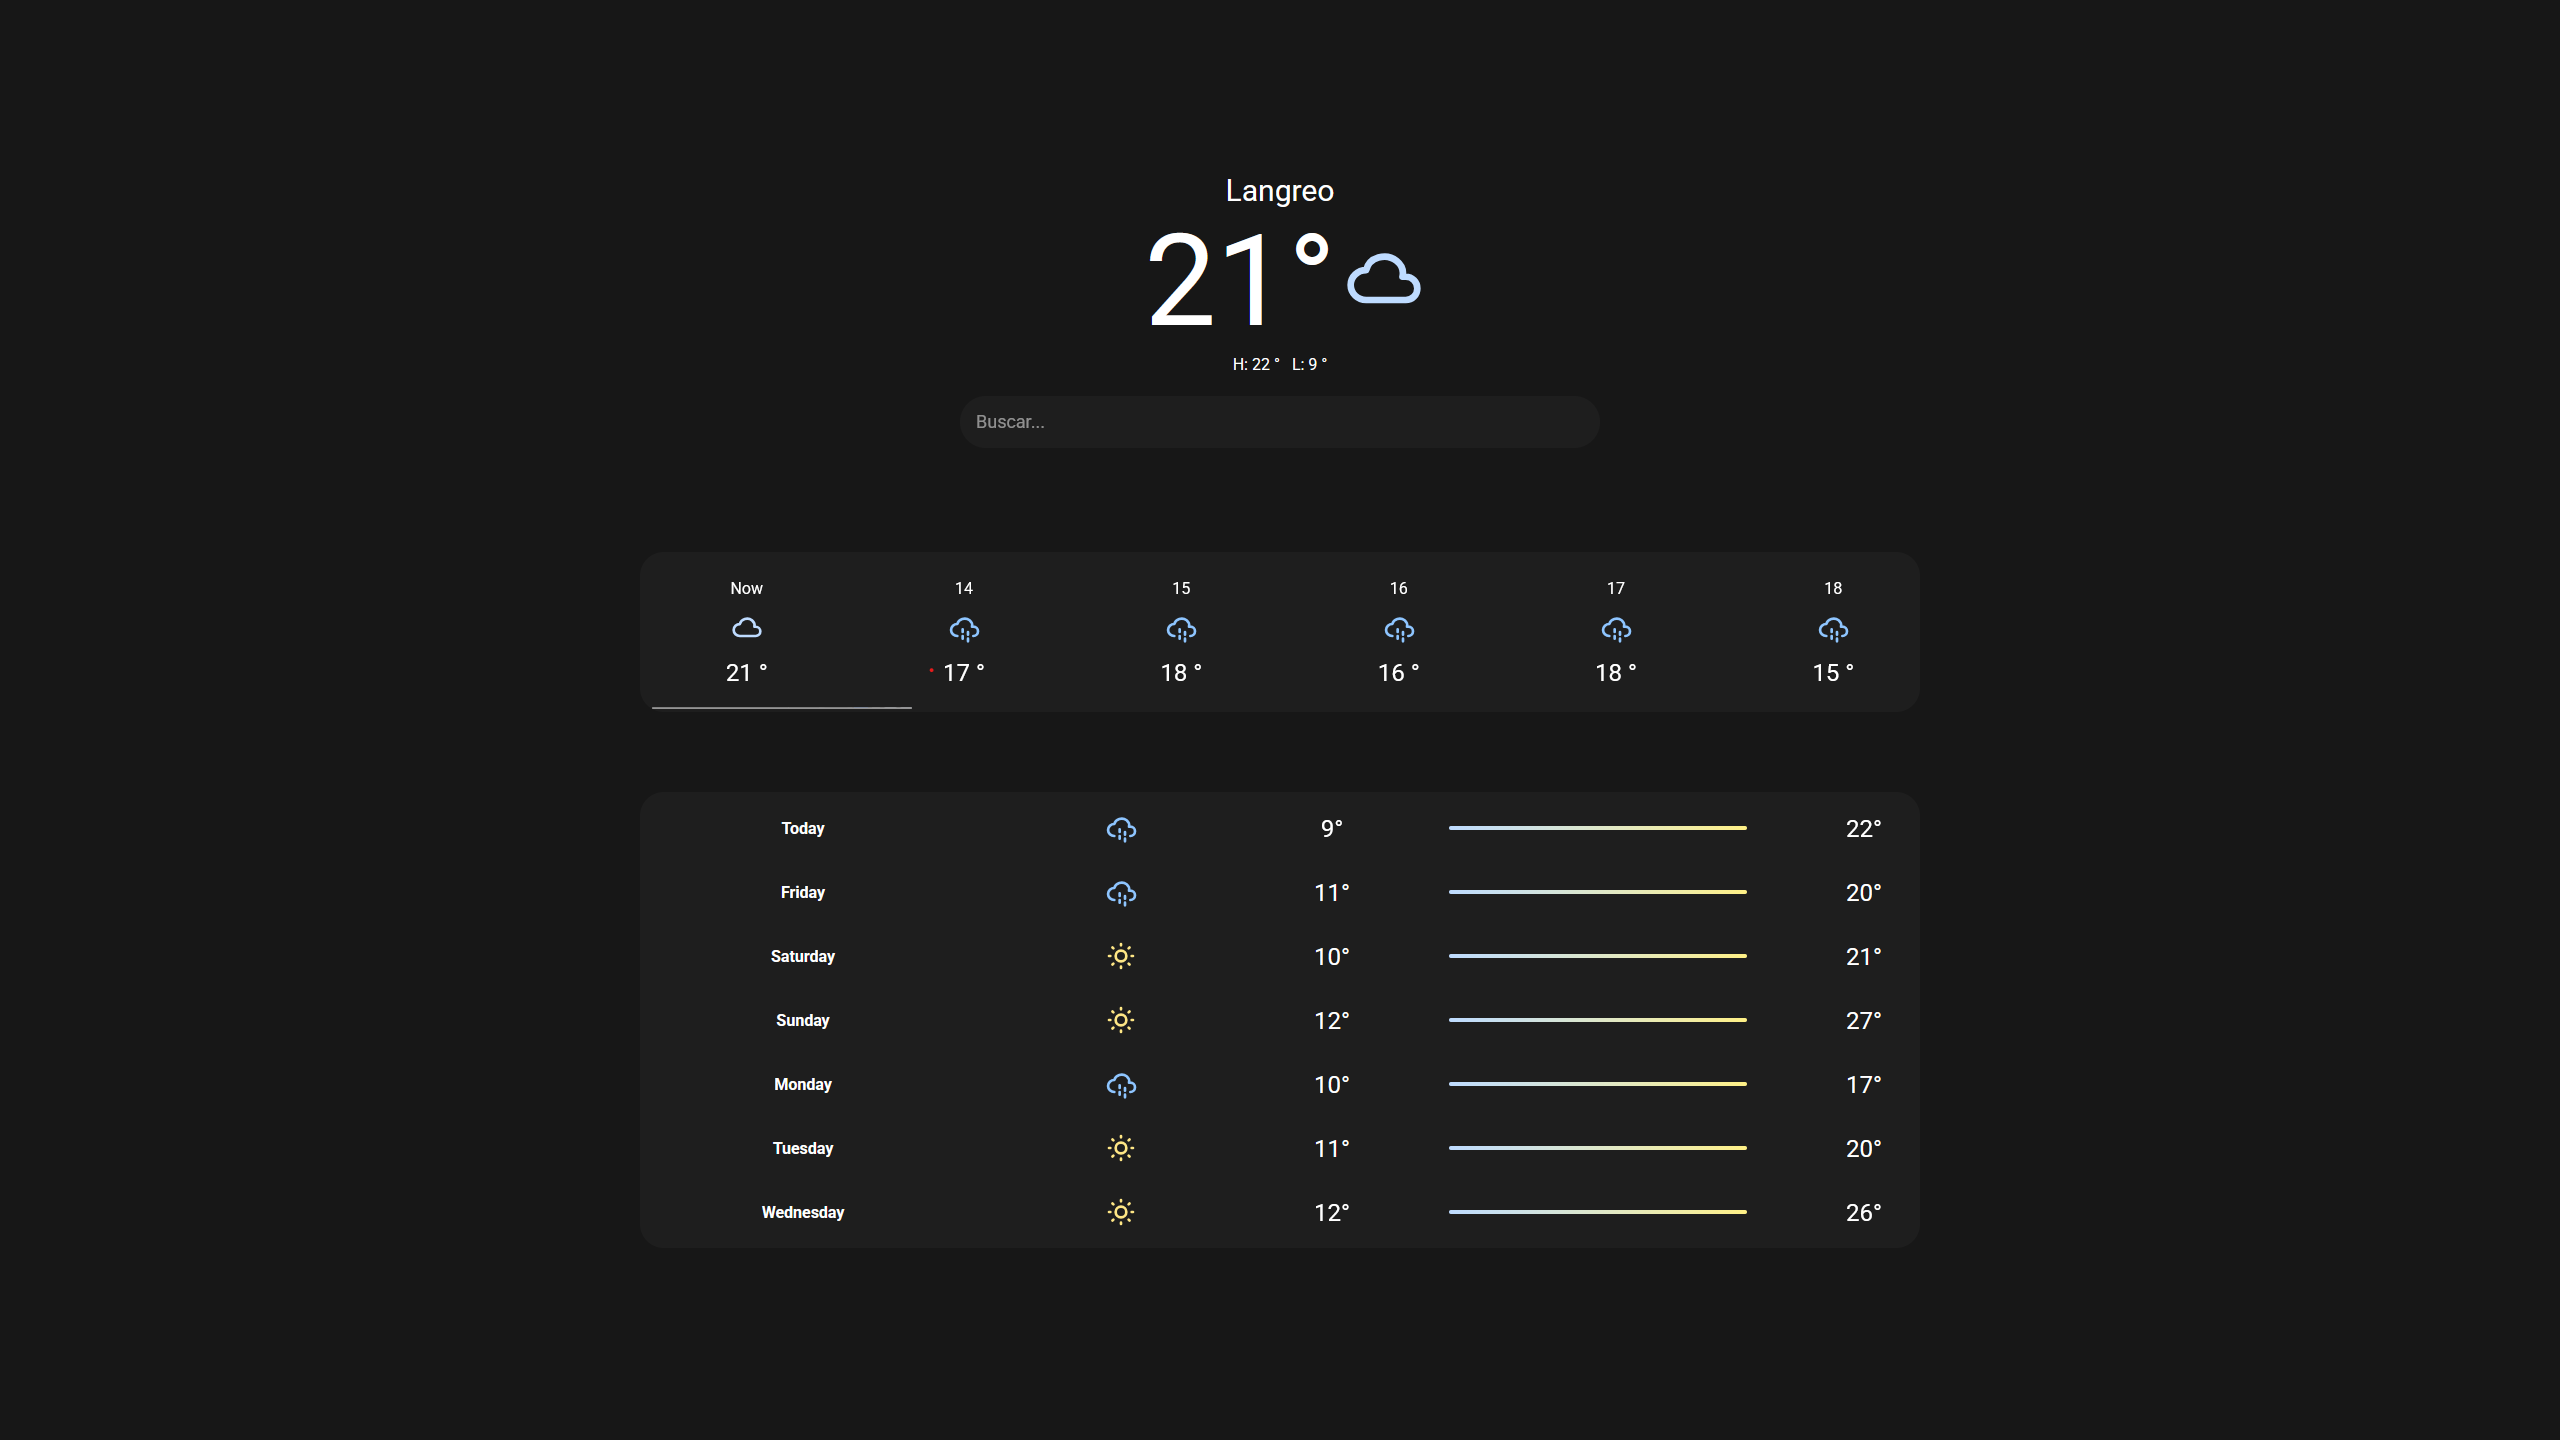
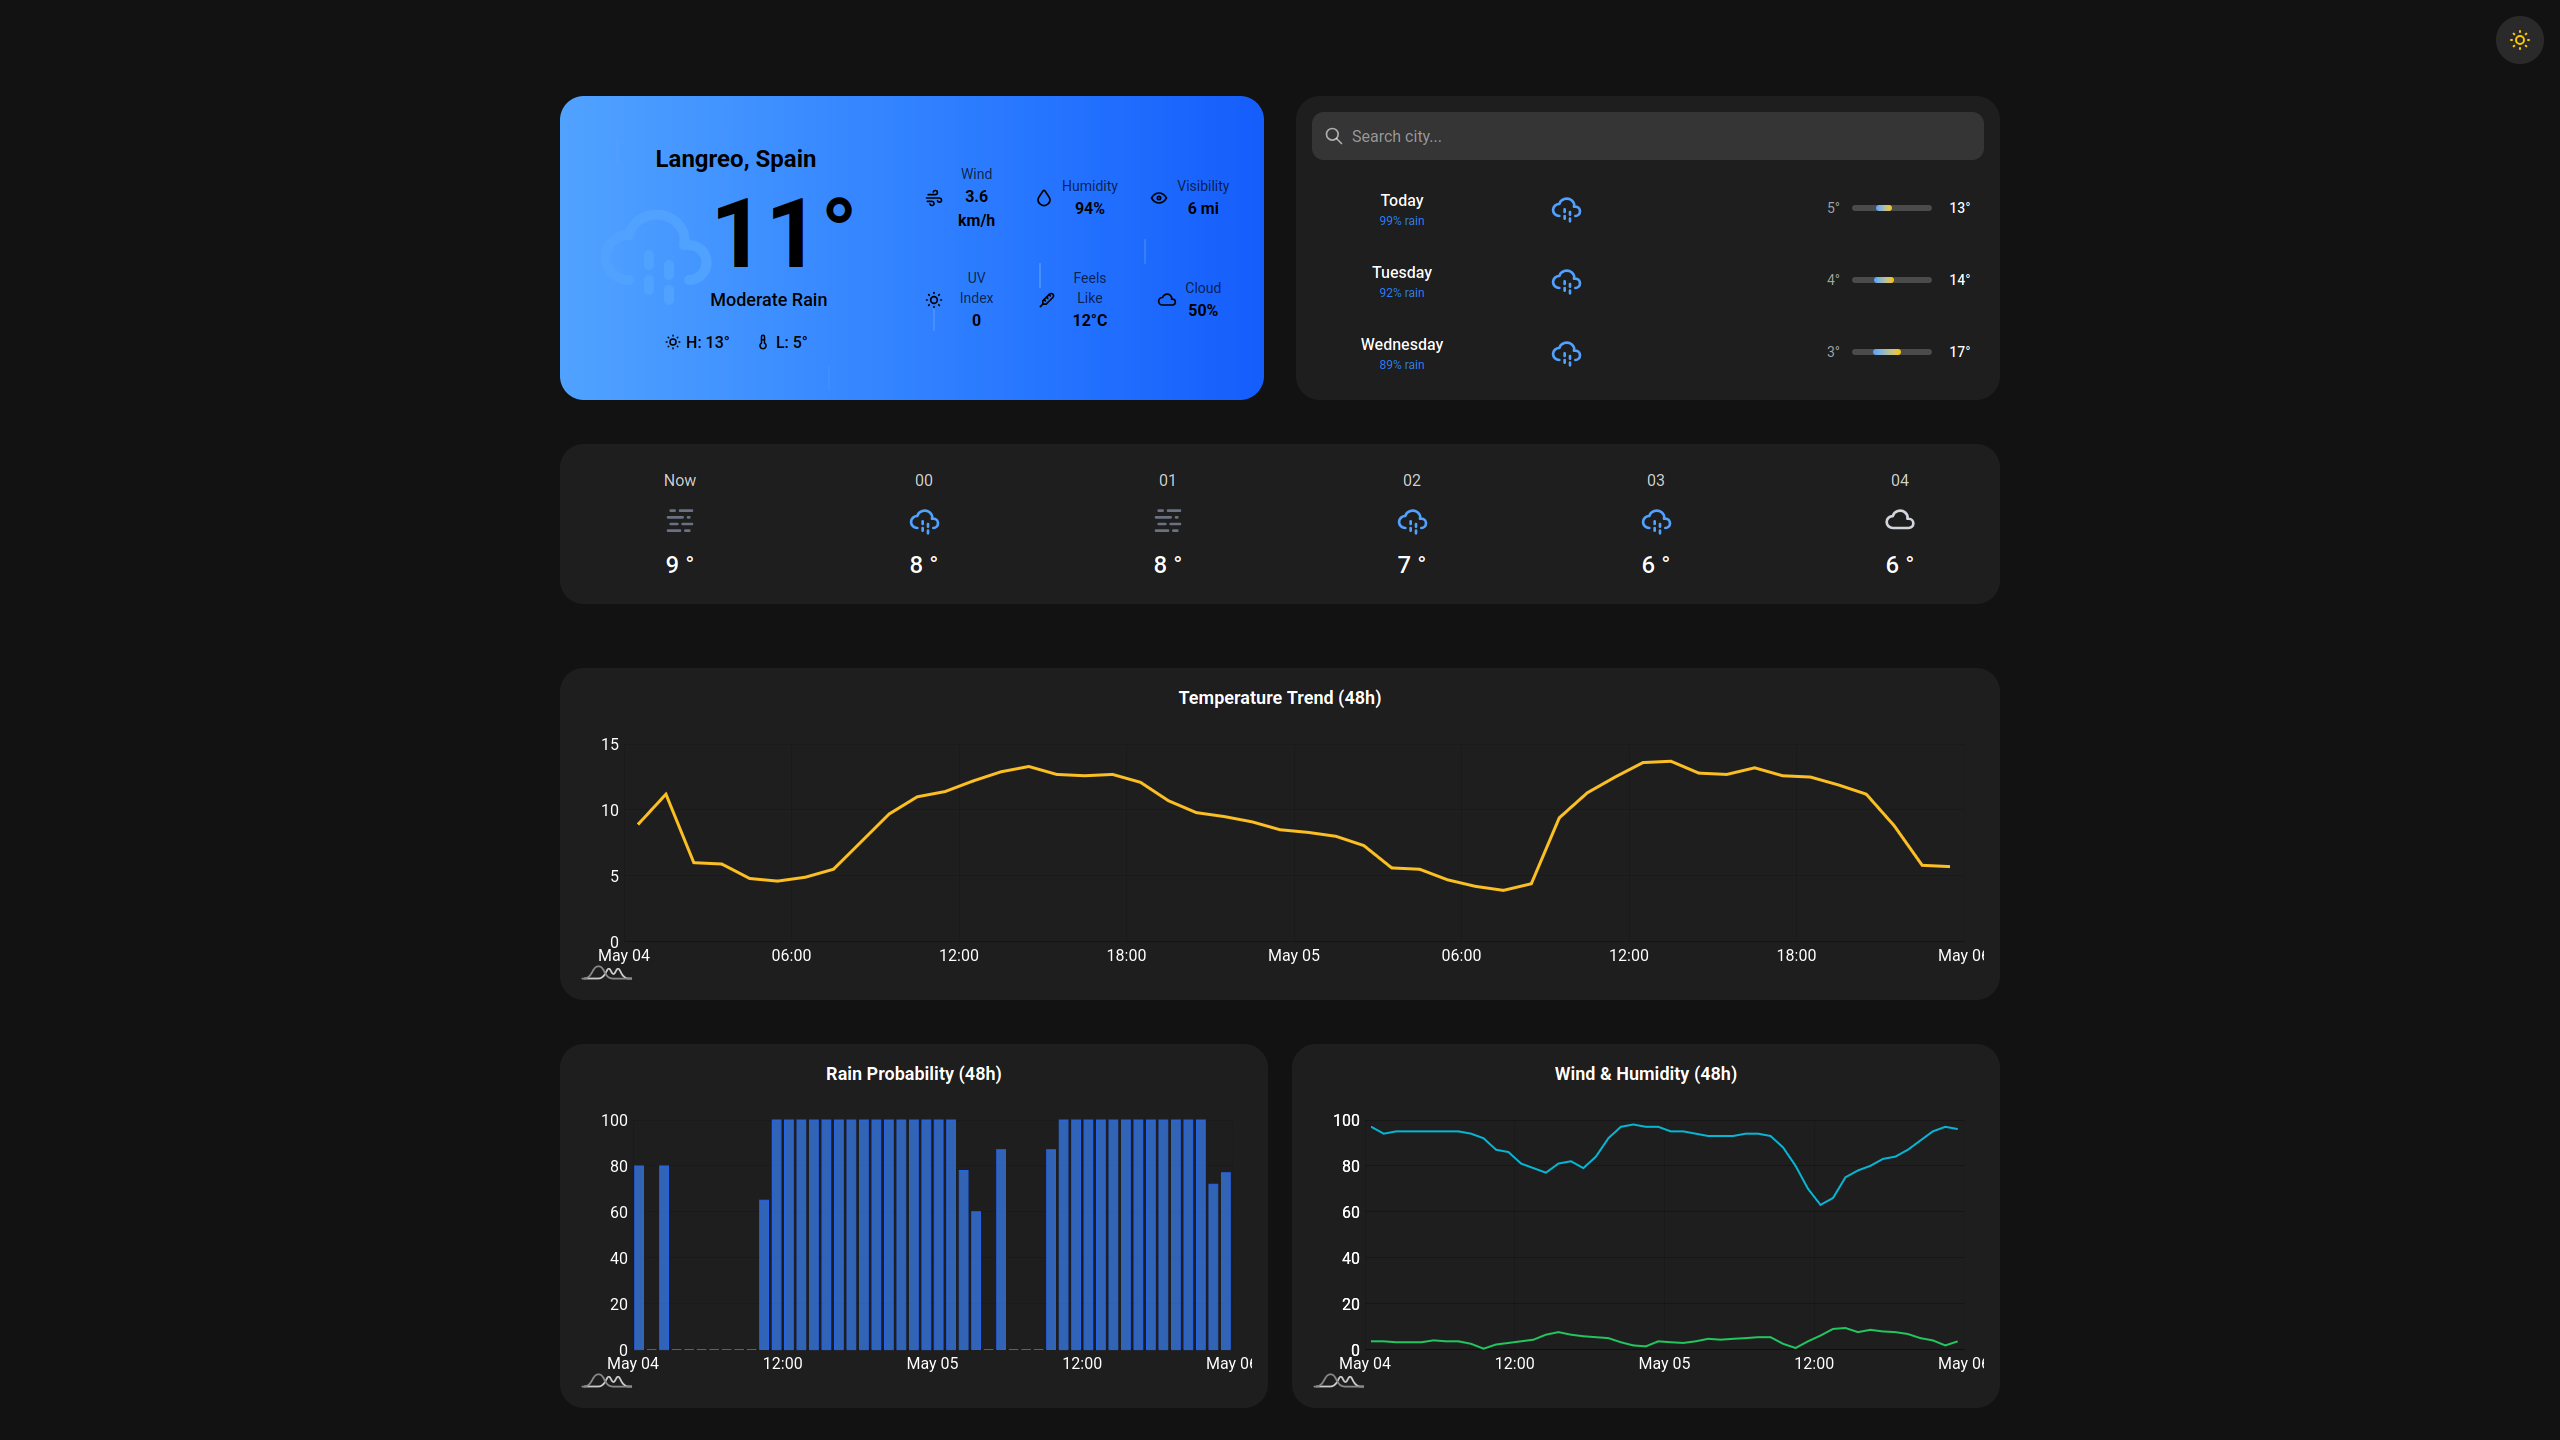
docs: update desktop screenshot and remove mobile preview from README

diff --git a/README.md b/README.md
@@ -89,7 +89,9 @@ src/
 
 ## 📸 Preview
 
-Desktop and mobile responsive design with dark/light theme support.
+Responsive design with dark/light theme support.
+
+![Desktop](src/assets/desktop.png)
 
 ---
 